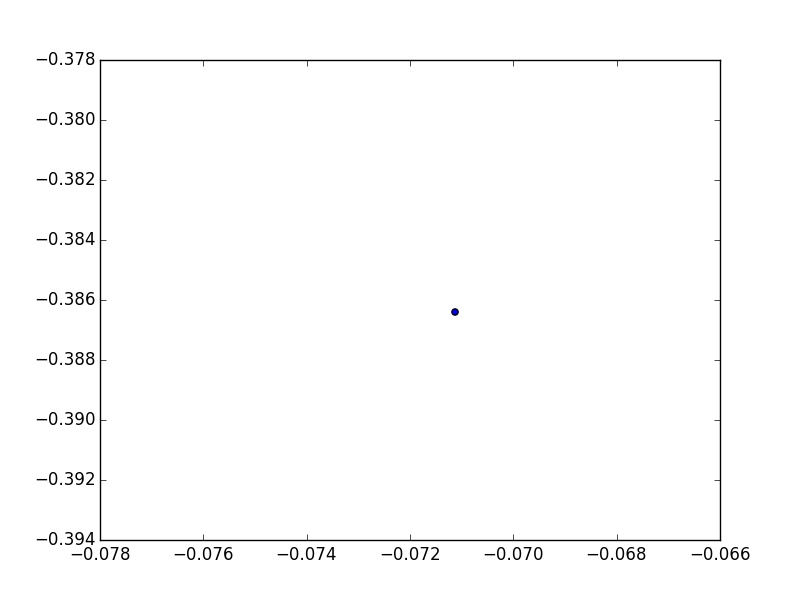
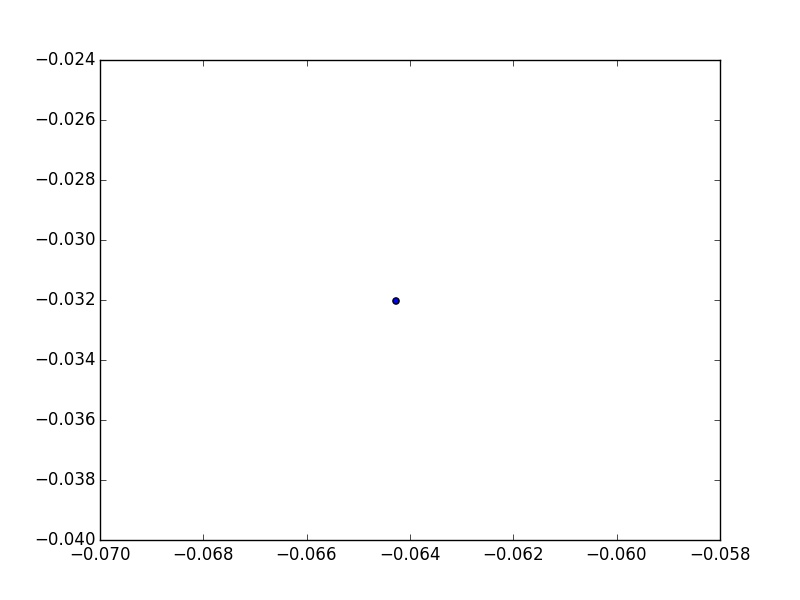
modifica

diff --git a/ev3/gra/gd.py b/ev3/gra/gd.py
@@ -5,8 +5,8 @@ import numpy as np
 
 ax = pl.gca()
 n = 1 ##1024
-x = np.random.normal(0,1,n)
-y = np.random.normal(0,1,n)
+x = np.random.normal(0,1)
+y = np.random.normal(0,1)
 
 pl.scatter(x,y)
 pl.savefig('gd.jpg')
